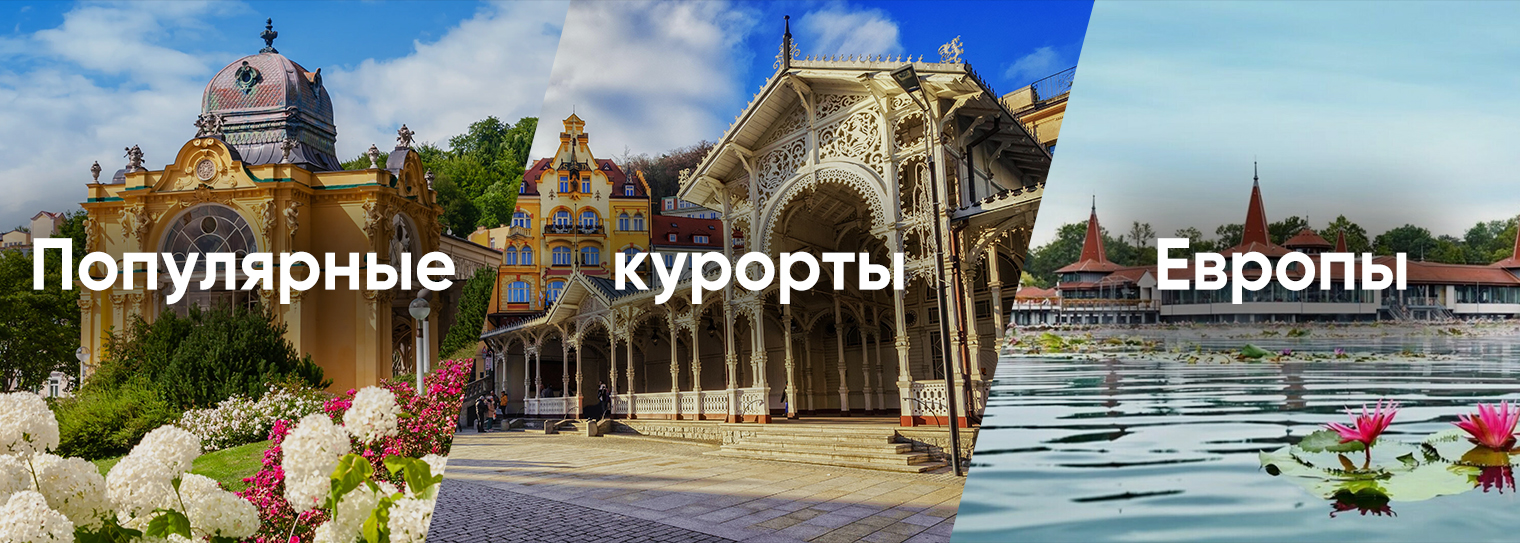
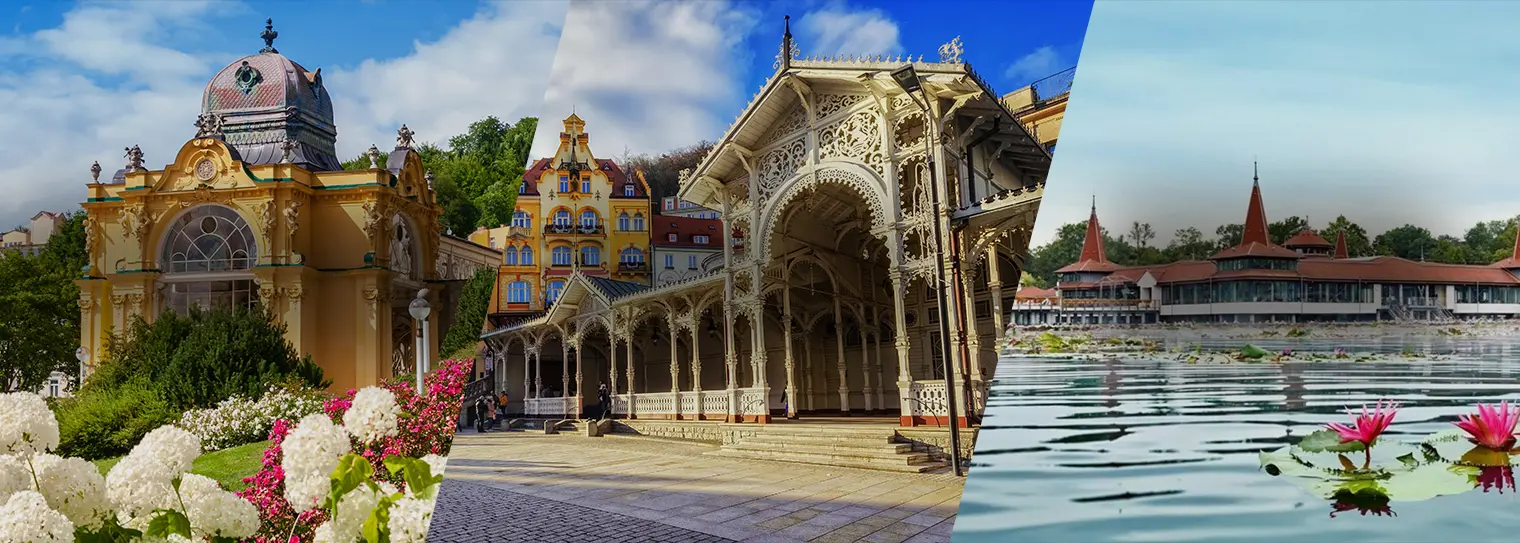
night fix 13.02.2025

diff --git a/src/pages/home/header/Carousel.jsx b/src/pages/home/header/Carousel.jsx
@@ -14,39 +14,56 @@ import image5 from '@assets/header/carousel/Training.webp';
 const slides = [
   {
     image: image1,
-    title: '',
-    subtitle: '',
+    title: `Экскурсионные туры`,
+    titleStyle:
+      'md:text-[#252630] text-white text-4xl md:text-6xl p-6 pb-8 md:bg-white rounded-[60px] rounded-bl-none shadow-lg',
+    subtitle: 'в Европу',
+    subtitleStyle:
+      'md:text-[#252630] text-white text-4xl md:text-6xl px-6 pb-8 pt-0 md:bg-white rounded-[60px] rounded-tl-none rounded-tr-none shadow-lg',
     buttonText: 'Бронировать',
     buttonStyle:
-      'absolute bottom-7 md:bottom-[90px] left-2 md:left-[54px] bg-orange-500 text-white text-[28px] md:text-[48px] md:pb-4 pb-2 font-bold py-1 px-10 rounded-full shadow-lg hover:bg-orange-600 transition',
+      'mt-6 bg-orange-500 text-white text-[28px] md:text-[48px] pb-2 pt-1 px-10 font-bold rounded-full shadow-lg hover:bg-orange-600 transition',
   },
   {
     image: image2,
-    title: '',
-    subtitle: '',
+    title: 'Роудшоу ЧЕШСКАЯ ОДИССЕЯ 2025',
+    titleStyle:
+      'md:text-[#252630] text-white text-3xl md:text-5xl font-bold md:bg-white p-4 rounded-[50px] rounded-bl-none shadow-lg',
+    subtitle: 'Представляем потенциал Чешских регионов',
+    subtitleStyle:
+      'md:text-[#252630] text-white text-xl md:text-2xl md:bg-white px-6 pb-6 pt-0 rounded-[50px] rounded-tl-none rounded-tr-none shadow-lg',
     buttonText: 'Регистрация',
     buttonStyle:
-      'absolute bottom-7 md:bottom-[90px] left-2 md:left-[48px] bg-orange-500 text-white text-[28px] md:text-[48px] md:pb-4 pb-2 font-bold py-1 px-10 rounded-full shadow-lg hover:bg-orange-600 transition',
+      'mt-6 bg-orange-500 text-white text-[28px] md:text-[48px] pb-2 pt-1 px-10 font-bold rounded-full shadow-lg hover:bg-orange-600 transition',
   },
   {
     image: image3,
-    title: '',
+    title: 'Популярные курорты Европы',
+    titleStyle:
+      'text-white text-5xl md:text-6xl font-bold text-center drop-shadow-[0_4px_4px_rgba(0,0,0,0.7)] w-full',
     subtitle: '',
+    subtitleStyle: '',
     buttonText: '',
     buttonStyle: 'hidden',
   },
   {
     image: image4,
-    title: '',
+    title: 'Telegram-канал',
+    titleStyle:
+      'text-white text-5xl md:text-6xl font-bold text-center drop-shadow-[0_4px_4px_rgba(0,0,0,0.5)]',
     subtitle: '',
+    subtitleStyle: '',
     buttonText: 'Перейти',
     buttonStyle:
-      'absolute bottom-7 md:bottom-[180px] left-2 md:left-[105px] bg-blue-500 text-white text-[38px] font-bold md:pb-5 py-3 px-14 rounded-full shadow-lg hover:bg-blue-600 transition',
+      'mt-6 bg-blue-500 text-white text-[28px] md:text-[38px] font-bold py-2 pb-4 px-10 rounded-full shadow-lg hover:bg-blue-600 transition',
   },
   {
     image: image5,
-    title: '',
+    title: 'Обучающие семинары\nи тренинги',
+    titleStyle:
+      'text-white text-5xl md:text-6xl font-bold text-center drop-shadow-[0_4px_4px_rgba(0,0,0,0.7)] w-full whitespace-pre-line',
     subtitle: '',
+    subtitleStyle: '',
     buttonText: '',
     buttonStyle: 'hidden',
   },
@@ -58,7 +75,6 @@ const Carousel = () => (
       modules={[Navigation, Pagination, Autoplay]}
       navigation
       pagination={{ clickable: true }}
-      // autoplay={{ delay: 3000, disableOnInteraction: false }}
       loop
     >
       {slides.map((slide, index) => (
@@ -66,17 +82,29 @@ const Carousel = () => (
           <img
             src={slide.image}
             alt={slide.title}
-            className="w-full h-[300px] sm:h-[400px] md:h-[500px] object-cover"
+            className="w-full h-[300px] sm:h-[400px] md:h-[500px] lg:h-[600px] object-cover"
             loading="lazy"
           />
-          <div className="absolute inset-0 flex flex-col justify-center items-center text-white">
-            <h2 className="text-2xl md:text-4xl font-bold cursor-default">
+          <div className="absolute inset-0 flex flex-col justify-center items-start sm:items-center md:items-start pl-4 sm:pl-6">
+            <h2
+              className={`${slide.titleStyle} text-3xl sm:text-5xl md:text-6xl`}
+            >
               {slide.title}
             </h2>
-            <p className="text-lg md:text-xl mt-2 cursor-default">
-              {slide.subtitle}
-            </p>
-            <button className={slide.buttonStyle}>{slide.buttonText}</button>
+            {slide.subtitle && (
+              <p
+                className={`${slide.subtitleStyle} text-xl sm:text-2xl md:text-3xl`}
+              >
+                {slide.subtitle}
+              </p>
+            )}
+            {slide.buttonText && (
+              <button
+                className={`${slide.buttonStyle} text-lg sm:text-2xl md:text-3xl px-6 md:px-10`}
+              >
+                {slide.buttonText}
+              </button>
+            )}
           </div>
         </SwiperSlide>
       ))}

diff --git a/src/pages/home/sections/Attention.jsx b/src/pages/home/sections/Attention.jsx
@@ -1,10 +1,10 @@
 import React from 'react';
 import { Link } from 'react-router-dom';
 
-import attention1 from '@assets/sections/attention/attention-1.webp';
-import attention2 from '@assets/sections/attention/attention-2.webp';
-import attention3 from '@assets/sections/attention/attention-3.webp';
-import attention4 from '@assets/sections/attention/attention-4.webp';
+import attention1 from '@assets/sections/attention/attention1.webp';
+import attention2 from '@assets/sections/attention/attention2.jpg';
+import attention3 from '@assets/sections/attention/attention3.jpg';
+import attention4 from '@assets/sections/attention/attention4.jpg';
 
 const slides = [
   {
